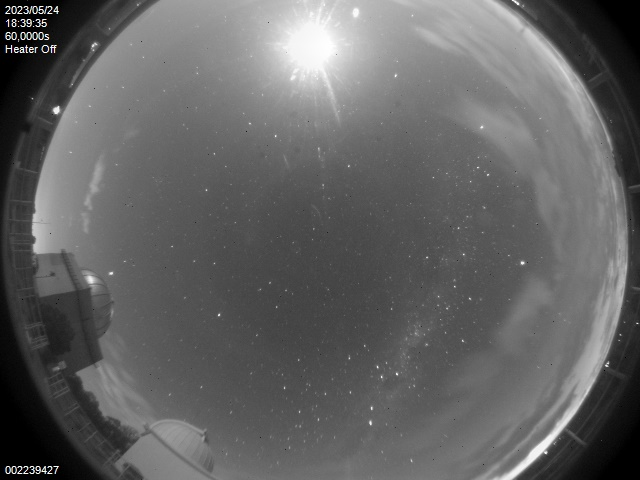
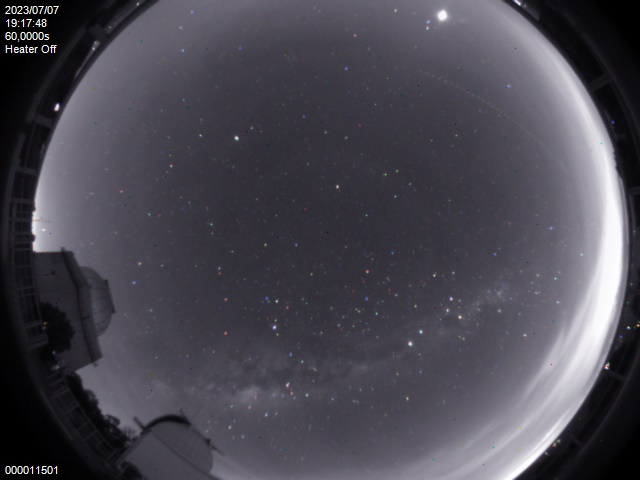
added seccond allsky

diff --git a/skymap.py b/skymap.py
@@ -19,8 +19,7 @@ import utils, getEphem
 
 class SkyMap():    
     def __init__(self):
-
-        self.allsky_angle = 134.6
+        self.allsky_angle = 0
 
         self.stardata = None
         # Download a list of constellations from Stellarium
@@ -83,131 +82,145 @@ class SkyMap():
         # array into the shape that matplotlib expects.
         return np.rollaxis(np.array([xy1, xy2]), 1)
 
-    def generate(self, allsky_img, skymap_img):
+    def generate(self, original_img, destination_img, angles):
         while True:
-            # Timezone
-            AMS = timezone('America/Sao_Paulo')
-            ts = load.timescale()
+            for allsky_img, skymap_img, allsky_angle in zip(original_img, destination_img, angles):
+                # Timezone
+                self.allsky_angle = allsky_angle
+                AMS = timezone('America/Sao_Paulo')
+                ts = load.timescale()
 
-            if 6<datetime.now().hour<18:
-                #AllSky at OPD is offline
-                is_online = False
-            else:
-                is_online = True
-
-            time_at = ts.from_datetime(AMS.localize(datetime.now()))
-            
-            opd_local = wgs84.latlon(-22.5344, -45.5825, elevation_m=1800).at(time_at)
-
-            #local sidereal time
-            lst = wgs84.latlon(-22.5344, -45.5825, elevation_m=1800).lst_hours_at(time_at)
-
-            position = opd_local.from_altaz(alt_degrees=90, az_degrees=0)        
-            sun = self.eph['sun']
-            earth = self.eph['earth']
-            moon = self.eph['moon']
-
-            try:                
-                # Make a projection and get the the x and y coordinates that each star will have on the plot.
-                projection = build_stereographic_projection(position)
-                e = earth.at(time_at)
-                star_positions = e.observe(Star.from_dataframe(self.stardata))
-                self.stardata['x'], self.stardata['y'] = projection(star_positions)
-
-                #Adjust fish-eye Allsky distotion                
-                azimuth, elevation = utils.get_az_alt(self.stardata.ra_hours,self.stardata.dec_degrees,lst,-22.5344)
-                self.stardata['x'], self.stardata['y'] = utils.pol2cart(90-elevation, azimuth, self.allsky_angle)
-                
-                # Create a True/False mask marking the stars bright enough to be
-                # included in our plot.  And go ahead and compute how large their
-                # markers will be on the plot.
-                limiting_magnitude = 4.5
-                bright_stars = (self.stardata.magnitude <= limiting_magnitude)
-                magnitude = self.stardata['magnitude'][bright_stars]
-                marker_size = (0.5 + limiting_magnitude - magnitude) ** 2.0
-                
-                # Get allsky from URL (640x480)
-                img = plt.imread(allsky_img)
-                fig, ax = plt.subplots(figsize=[6, 6])
-                tr = tx.Affine2D().rotate_deg(0)
-                ax.imshow(img, extent=[-320, 320, -240, 240])
-
-                # Plot constellation lines
-                ax.add_collection(LineCollection(self.generate_constellation_lines(self.constellations),
-                                    colors='gold', linewidths=.5, zorder=1, alpha=0.4))                
-
-                # Plot Stars only at daytime
-                ax.scatter(self.stardata['x'][bright_stars], self.stardata['y'][bright_stars],
-                    s=marker_size, color='Brown', alpha=.4)            
-
-                # Adjusts
-                field_of_view_degrees = 180.0
-                angle = np.pi - field_of_view_degrees / 360.0 * np.pi
-                limit = np.sin(angle) / (1.0 - np.cos(angle))
-
-                ax.xaxis.set_visible(False)
-                ax.yaxis.set_visible(False)
-                ax.patch.set_alpha(0.3)
-                ax.set_title(f"Constelações no céu do OPD UTC: {time_at.utc_strftime('%Y %B %d %H:%M')}", color='gold')
-
-                # Save
-                plt.xlim(-320, 320)
-                plt.ylim(-240, 240)
-
-                #moon
-                s = e.observe(sun).apparent()
-                m = e.observe(moon).apparent()
-                _, slon, _ = s.frame_latlon(ecliptic_frame)
-                _, mlon, _ = m.frame_latlon(ecliptic_frame)
-                phase = (mlon.degrees - slon.degrees) % 360.0
-
-                if 0 <= phase < 90:
-                    moon_phase = 'new_moon'
-                if 180 <= phase < 270:
-                    moon_phase = 'full_moon'
+                if 6<datetime.now().hour<18:
+                    #AllSky at OPD is offline
+                    is_online = False
                 else:
-                    moon_phase = 'quarter_moon'
+                    is_online = True
 
-                #insert coordinates to insert it on image
-                constellations_coord = self.constelattions_name_coord(lst)
-                for constellation in constellations_coord:                    
-                    x, y = constellations_coord[constellation]                    
-                    if (-280 < x < 280) and (-220 < y < 220) and is_online:                        
-                        plt.text(x, y, constellation, fontsize=4, color='gold', alpha=0.5)
+                time_at = ts.from_datetime(AMS.localize(datetime.now()))
+                
+                opd_local = wgs84.latlon(-22.5344, -45.5825, elevation_m=1800).at(time_at)
 
-                # get planets and bright stars names/coordinates
-                planets, stars = getEphem.astro_coordinates(self.allsky_angle)  
-                valid_planets = [(planet, planets[planet]) for planet in planets if (-280 < planets[planet][0] < 280) and (-220 < planets[planet][1] < 220) and is_online]
-                valid_stars = [(star, stars[star]) for star in stars if (-280 < stars[star][0] < 280) and (-220 < stars[star][1] < 220) and is_online]
+                #local sidereal time
+                lst = wgs84.latlon(-22.5344, -45.5825, elevation_m=1800).lst_hours_at(time_at)
 
-                for planet, (x, y) in valid_planets:
-                    if 'Moon' in planet:
-                        arr_img = plt.imread(f"icons/{moon_phase}.png")
+                position = opd_local.from_altaz(alt_degrees=90, az_degrees=0)        
+                sun = self.eph['sun']
+                earth = self.eph['earth']
+                moon = self.eph['moon']
+
+                try:                
+                    # Make a projection and get the the x and y coordinates that each star will have on the plot.
+                    projection = build_stereographic_projection(position)
+                    e = earth.at(time_at)
+                    star_positions = e.observe(Star.from_dataframe(self.stardata))
+                    self.stardata['x'], self.stardata['y'] = projection(star_positions)
+
+                    #Adjust fish-eye Allsky distotion                
+                    azimuth, elevation = utils.get_az_alt(self.stardata.ra_hours,self.stardata.dec_degrees,lst,-22.5344)
+                    self.stardata['x'], self.stardata['y'] = utils.pol2cart(90-elevation, azimuth, self.allsky_angle)
+                    
+                    # Create a True/False mask marking the stars bright enough to be
+                    # included in our plot.  And go ahead and compute how large their
+                    # markers will be on the plot.
+                    limiting_magnitude = 4.5
+                    bright_stars = (self.stardata.magnitude <= limiting_magnitude)
+                    magnitude = self.stardata['magnitude'][bright_stars]
+                    marker_size = (0.5 + limiting_magnitude - magnitude) ** 2.0
+                    
+                    # Get allsky from URL (640x480)
+                    img = plt.imread(allsky_img)
+                    fig, ax = plt.subplots(figsize=[6, 6])
+                    tr = tx.Affine2D().rotate_deg(0)
+                    ax.imshow(img, extent=[-320, 320, -240, 240])
+
+                    center = (0.5, 0.5)  # Center coordinates (x, y)
+                    radius = 280.4  # Radius of the circular region
+
+                    # Filter the line segments based on their endpoints' distance from the center
+                    filtered_segments = []
+                    for segment in self.generate_constellation_lines(self.constellations):
+                        dist1 = np.linalg.norm(segment[0] - center)
+                        dist2 = np.linalg.norm(segment[1] - center)
+                        if dist1 <= radius and dist2 <= radius:
+                            filtered_segments.append(segment)
+
+                    # Plot constellation lines
+                    ax.add_collection(LineCollection(filtered_segments,
+                                        colors='gold', linewidths=.5, zorder=1, alpha=0.4))               
+
+                    # Plot Stars only at daytime
+                    ax.scatter(self.stardata['x'][bright_stars], self.stardata['y'][bright_stars],
+                        s=marker_size, color='Brown', alpha=.4)            
+
+                    # Adjusts
+                    field_of_view_degrees = 180.0
+                    angle = np.pi - field_of_view_degrees / 360.0 * np.pi
+                    limit = np.sin(angle) / (1.0 - np.cos(angle))
+
+                    ax.xaxis.set_visible(False)
+                    ax.yaxis.set_visible(False)
+                    ax.patch.set_alpha(0.3)
+                    ax.set_title(f"Constelações no céu do OPD UTC: {time_at.utc_strftime('%Y %B %d %H:%M')}", color='gold')
+
+                    # Save
+                    plt.xlim(-320, 320)
+                    plt.ylim(-240, 240)
+
+                    #moon
+                    s = e.observe(sun).apparent()
+                    m = e.observe(moon).apparent()
+                    _, slon, _ = s.frame_latlon(ecliptic_frame)
+                    _, mlon, _ = m.frame_latlon(ecliptic_frame)
+                    phase = (mlon.degrees - slon.degrees) % 360.0
+
+                    if 0 <= phase < 90:
+                        moon_phase = 'new_moon'
+                    if 180 <= phase < 270:
+                        moon_phase = 'full_moon'
                     else:
-                        arr_img = plt.imread(f"icons/{planet}.png")
-                    im = OffsetImage(arr_img, zoom=.1)
-                    ab = AnnotationBbox(im, (x, y), frameon=False)
-                    ax.add_artist(ab)
+                        moon_phase = 'quarter_moon'
 
-                for star, (x, y) in valid_stars:
-                    plt.text(x, y, star, fontsize=5, color='gold', alpha=0.8)
+                    #insert coordinates to insert it on image
+                    constellations_coord = self.constelattions_name_coord(lst)
+                    for constellation in constellations_coord:                    
+                        x, y = constellations_coord[constellation]                    
+                        if (-280 < x < 280) and (-220 < y < 220) and is_online:                        
+                            plt.text(x, y, constellation, fontsize=4, color='gold', alpha=0.5)
+
+                    # get planets and bright stars names/coordinates
+                    planets, stars = getEphem.astro_coordinates(self.allsky_angle)  
+                    valid_planets = [(planet, planets[planet]) for planet in planets if (-280 < planets[planet][0] < 280) and (-225 < planets[planet][1] < 230) and is_online]
+                    valid_stars = [(star, stars[star]) for star in stars if (-280 < stars[star][0] < 280) and (-220 < stars[star][1] < 220) and is_online]
+
+                    for planet, (x, y) in valid_planets:
+                        if 'Moon' in planet:
+                            arr_img = plt.imread(f"icons/{moon_phase}.png")
+                        else:
+                            arr_img = plt.imread(f"icons/{planet}.png")
+                        im = OffsetImage(arr_img, zoom=.1)
+                        ab = AnnotationBbox(im, (x, y), frameon=False)
+                        ax.add_artist(ab)
+
+                    for star, (x, y) in valid_stars:
+                        plt.text(x, y, star, fontsize=5, color='gold', alpha=0.8)
 
 
-                print(f"Creating map {time_at.utc_strftime('%H:%M')}")
-                fig.savefig(skymap_img, bbox_inches='tight', transparent=True, dpi=250)
-                plt.clf()
-                plt.close(fig) 
-                             
-                self.reload_eph()
-                time.sleep(30)
-            except Exception as e:
-                print("ERRO SKYMAP:", str(e))
+                    print(f"Creating map {time_at.utc_strftime('%H:%M')}")
+                    fig.savefig(skymap_img, bbox_inches='tight', transparent=True, dpi=250)
+                    plt.clf()
+                    plt.close(fig) 
+                                
+                    self.reload_eph()
+                    time.sleep(30)
+                except Exception as e:
+                    print("ERRO SKYMAP:", str(e))
 
 #path of original allsky image
-allsky_img = "images/allsky.jpg"
+allsky_img = [r"images\allsky340c.jpg", r"images\allsky.jpg"]
 #path of destination skymap image
-skymap_img = "images/skymap.png"
+skymap_img = [r"images\skymap340c.png", r"images\allsky.png"]
+angles = [-41, 133]
 
 skyMap = SkyMap()
-skyMap.generate(allsky_img, skymap_img)
+skyMap.generate(allsky_img, skymap_img, angles)
 

diff --git a/utils.py b/utils.py
@@ -113,8 +113,12 @@ def pol2cart(rho, phi, allsky_angle):
 
     x = rho * np.cos(np.radians(phi+allsky_angle))
     y = rho * np.sin(np.radians(phi+allsky_angle))
-    x0 = 8.5
-    y0 = -5
+    if allsky_angle<0:
+        x0 = 0.5
+        y0 = 12.1
+    else:
+        x0 = 8.5
+        y0 = -5
     
     x=3.365*x+x0
     y=3.365*y+y0

diff --git a/README.md b/README.md
@@ -4,6 +4,7 @@
 <p align="center">Install the requirements >> pip install -r requirements.txt</p>
 
 ### Images
-<img src="images\skymap.png" alt="skymap">
+<img src="images\allsky.png" alt="skymap">
+<img src="images\allsky340c.png" alt="skymap">
 
 
